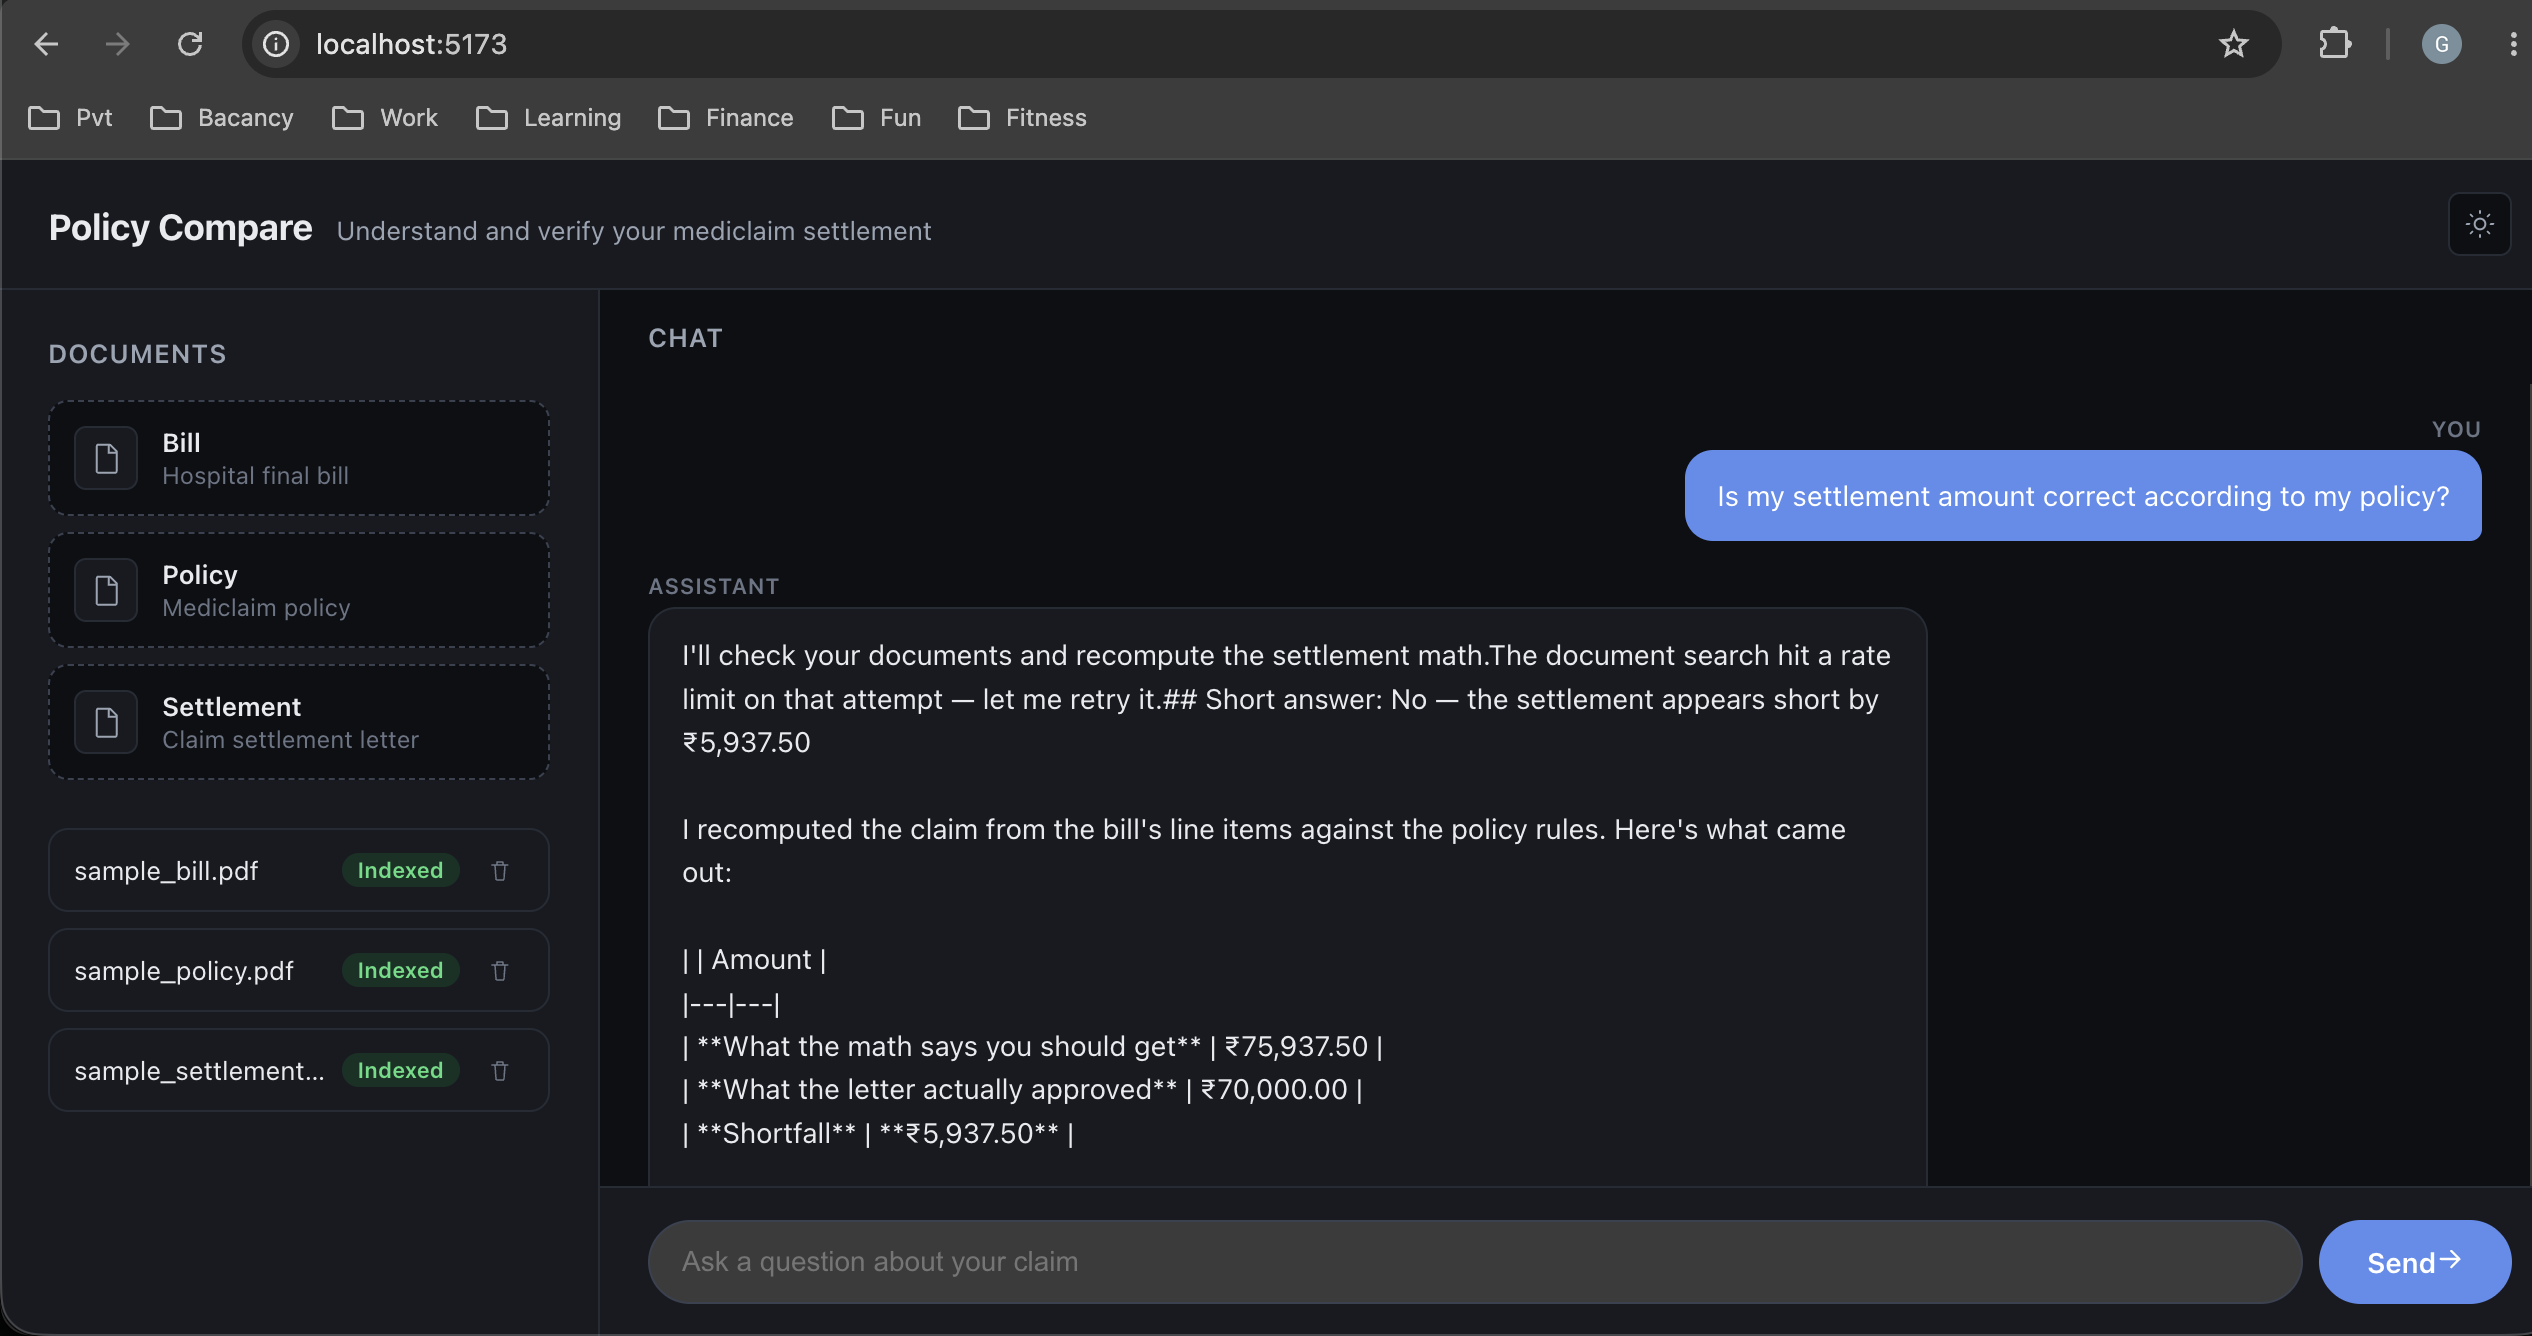
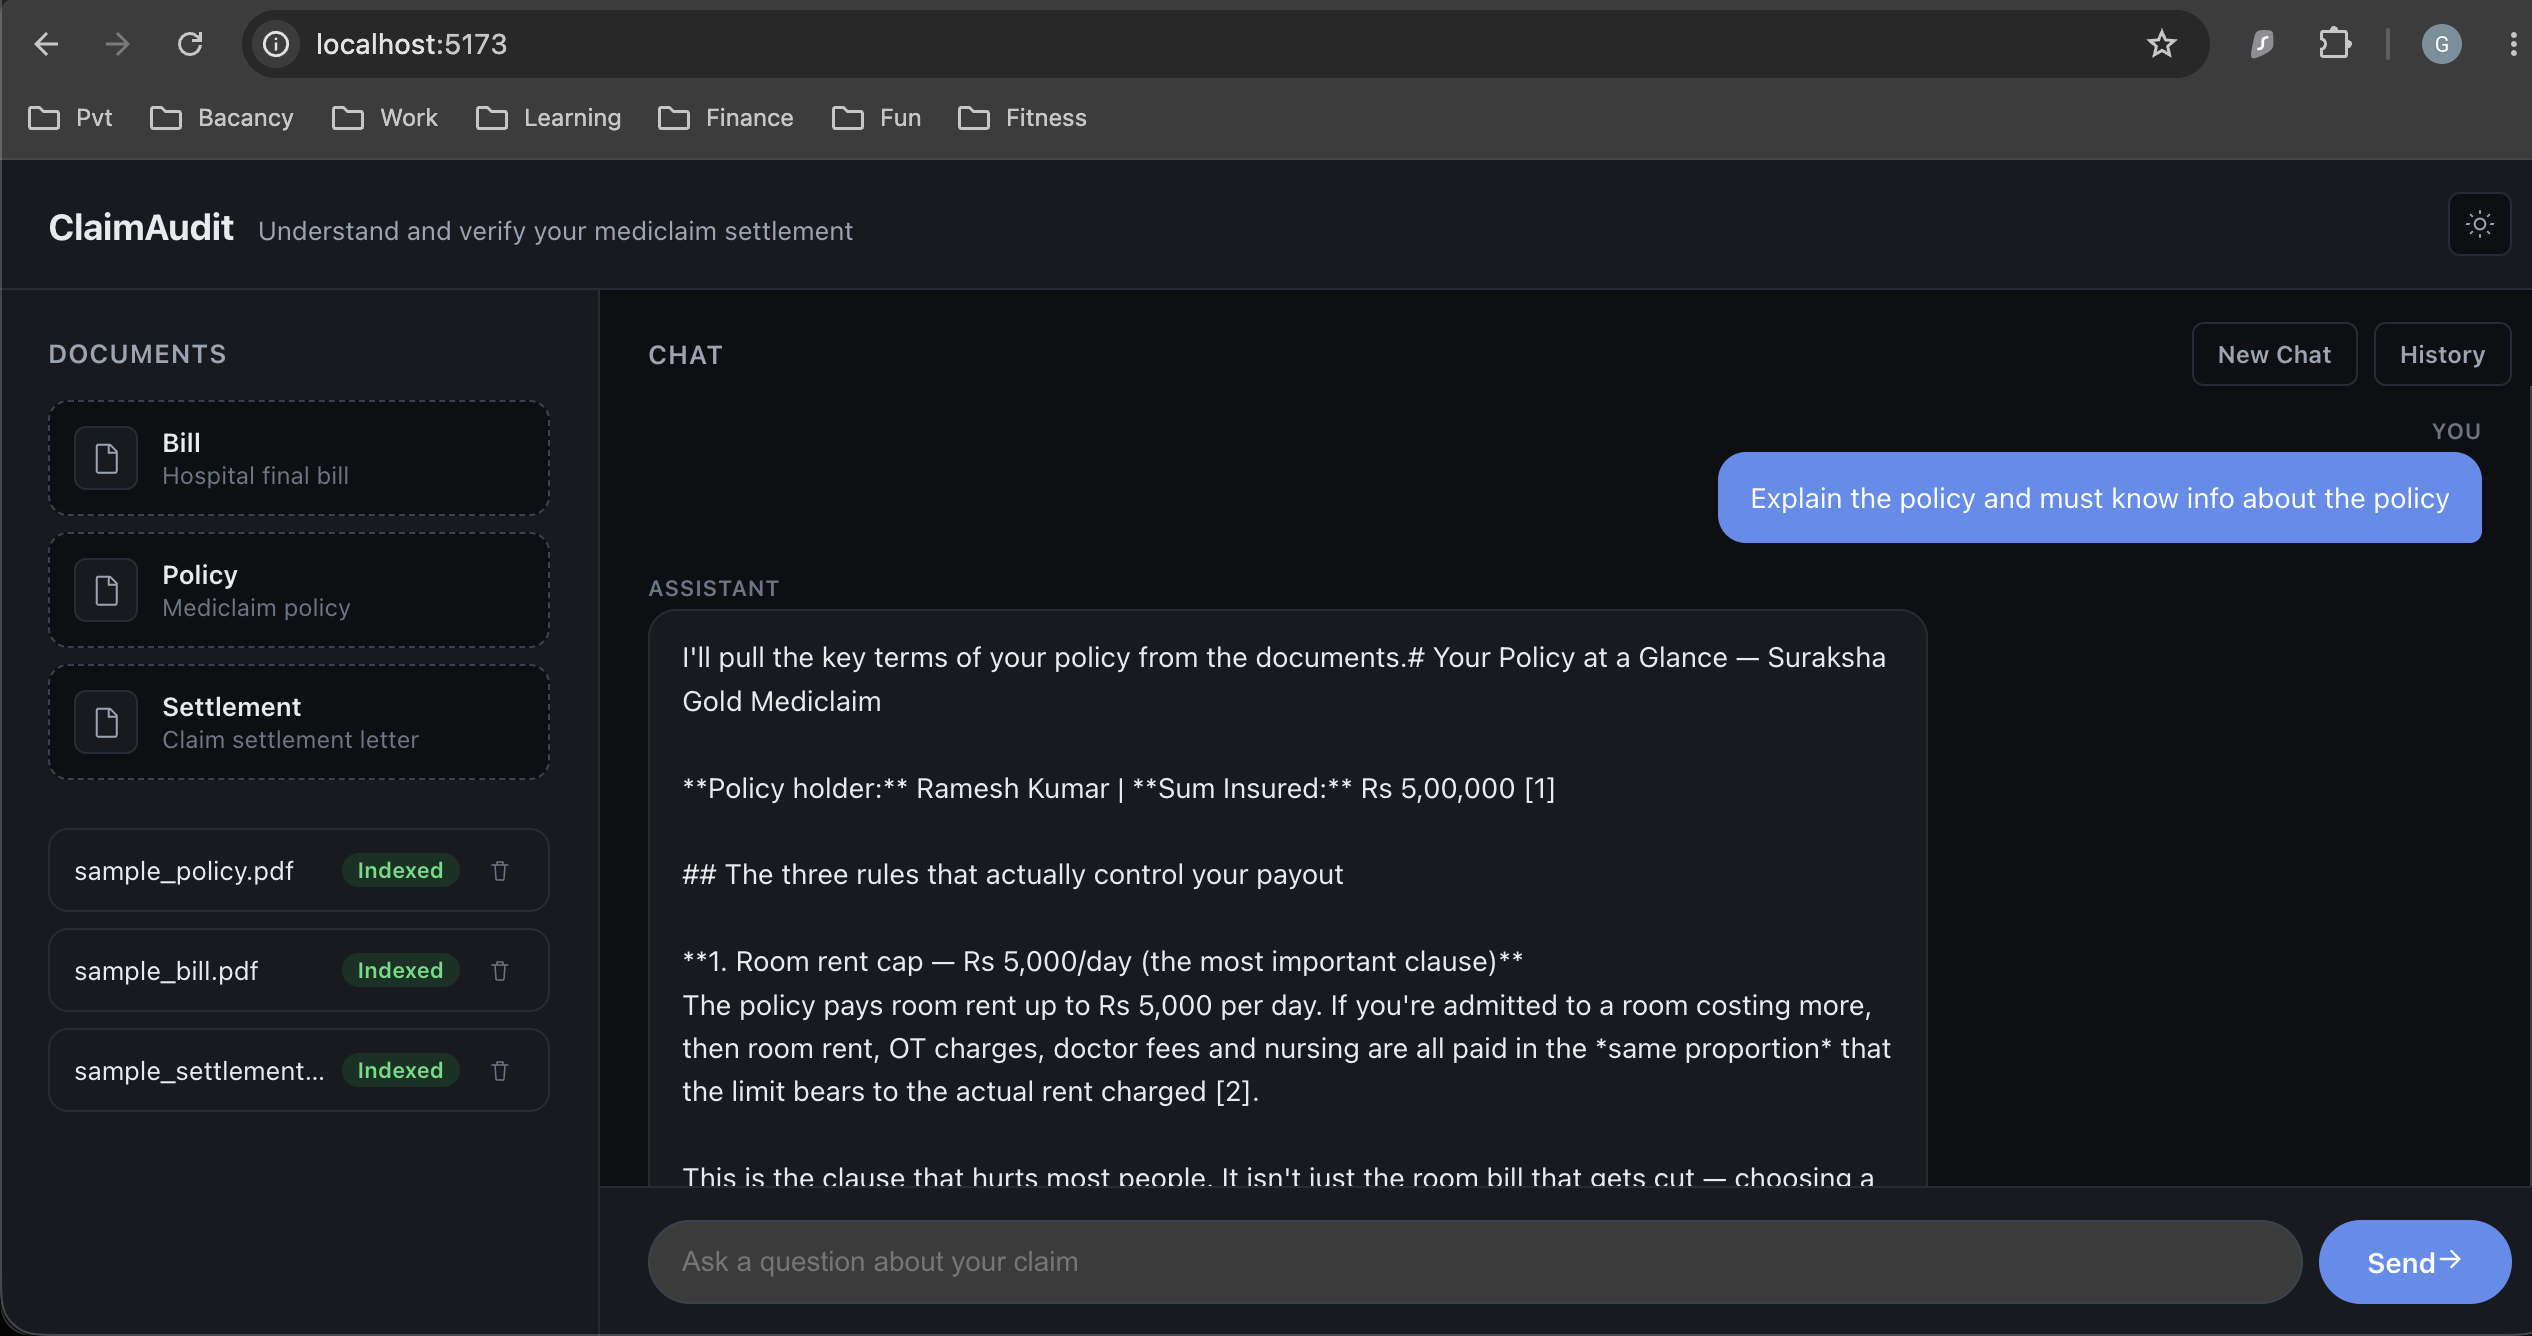
Update README screenshot to current UI
Replaces the stale reconciliation-discrepancy screenshot with a current
one showing the policy Q&A flow and the New Chat / History UI.

diff --git a/README.md b/README.md
@@ -2,7 +2,7 @@
 
 A RAG chatbot that helps you understand and verify an Indian health insurance (mediclaim) claim settlement. Upload your hospital bill, your mediclaim policy, and the insurer/TPA's claim settlement letter, then ask why a deduction happened — the bot answers using hybrid document retrieval **and** a deterministic reconciliation engine that recomputes what the settlement should be (including the room-rent-proportionate-deduction math) and flags mismatches against what was actually approved.
 
-![ClaimAudit running locally — the reconciliation engine catching a real ₹5,937.50 discrepancy](docs/screenshot.png)
+![ClaimAudit running locally — asking about the policy's room rent cap, with citations back to the source document](docs/screenshot.png)
 
 ## Status
 
